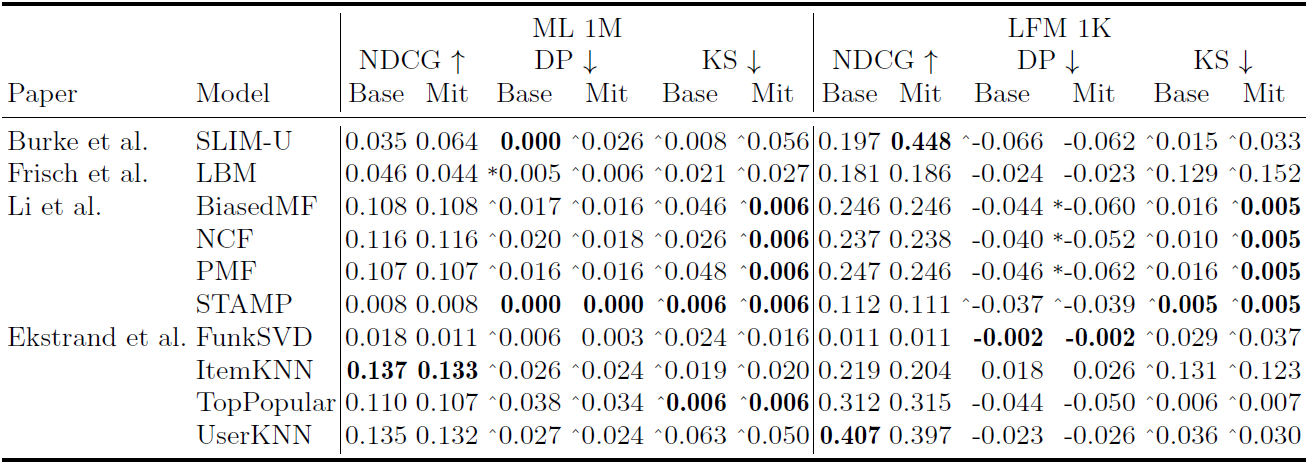
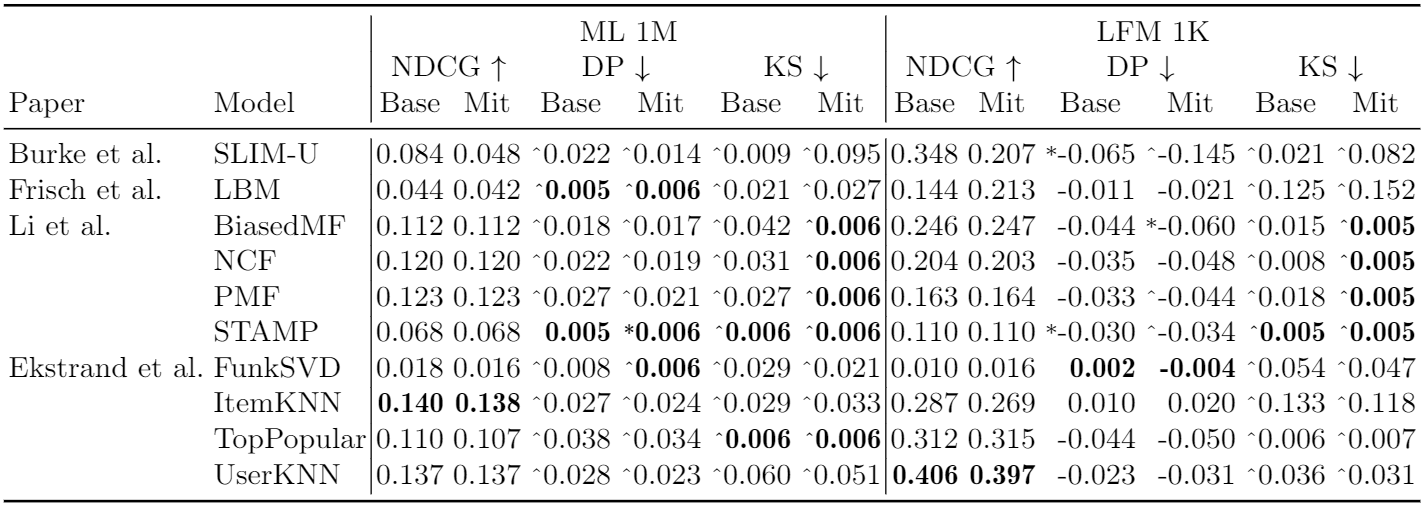
Updated results and hyper-parameters of each paper

diff --git a/reproducibility_study/Wu_et_al/REPRODUCE.md b/reproducibility_study/Wu_et_al/REPRODUCE.md
@@ -32,19 +32,19 @@ inside the same file or the [REPRODUCE.md](../../Preprocessing/REPRODUCE.md) fil
 you need to add the argument `--create_fairgo_input_data` to generate the input files for this paper. You must copy the files from the
 related directory and copy them inside the directory **filtered(20)_lastfm_1K_reproduce_data** for Last.FM 1K and **movielens_1m_reproduce_data** for MovieLens 1M.
 
-We used the following hyper-parameters:
-- learning rate for all the optimizers: 0.005
-- filtered embeddings size: 64
+The embedding of the GCN baseline have been created using the following hyper-parameters:
+- GCN embedding size: (MovieLens 1M: 64, Last.FM 1K: 128)
+- GCN learning rate: (MovieLens 1M: 0.01, Last.FM 1K: 0.005)
 
-For each dataset we used the following hyper-parameters:
-- MovieLens 1M:
-    - &#955; = 0.1
-    - 3 layers for each filter network with hidden layers size: [128,64]
-    - 4 layers for each discriminator with hidden layers size: [16,8]
-- Last.FM 1K:
-    - &#955; = 0.2
-    - 4 layers for each filter network with hidden layers size: [128,64,32]
-    - 4 layers for each discriminator with hidden layers size: [16,8,4]
+The parameters selected for the filtering mitigation approach are: 
+- **MovieLens 1M**:
+    - d_optimizer learning rate (Learning rate of the discriminators optimizer): 0.01
+    - f_optimizer learning rate (Learning rate of the filters optimizer): 0.005
+    - &#955; (lambda): 0.2
+- **Last.FM 1K**:
+    - d_optimizer learning rate (Learning rate of the discriminators optimizer): (Gender: 0.005, Age: 0.01)
+    - f_optimizer learning rate (Learning rate of the filters optimizer): (Gender: 0.01, Age: 0.005)
+    - &#955; (lambda): 0.3
 
 ## 4. Code Execution
 The code to train the GCN and save the embeddings can be executed with the following command in Windows inside the folder **code/code_ml** for MovieLens 1M or inside the folder

diff --git a/reproducibility_study/Burke_et_al/REPRODUCE.md b/reproducibility_study/Burke_et_al/REPRODUCE.md
@@ -60,19 +60,39 @@ NOTICE: to reduce the number of labels we only use the labels `F` and `M`. The u
 that in the pre-processed datasets are identified with `True`, while `F` are the users of the minority group (female, old) that in the pre-processed datasets
 are identified with `False`, as done by the authors, who treat females as the protected class.
 
-The hyper-parameters for the *BN-SLIM-U* model that we used are:
+The hyper-parameters for the *SLIM-U* model that we used are:
 - early-stop: true
 - similarity (type="user"): cos
-- neighborhood-size: 50
 - shrinkage: 10
 - bold-driver: false
 - iterator-max: 10
-- &#955;<sub>1</sub> (`<l1-reg>`): 0.1
-- &#955;<sub>2</sub> (`<l2-reg>`): 0.001
-- &#955;<sub>3</sub> (`<l3-reg>`): 25
+- &#955;<sub>3</sub> (`<l3-reg>`): 0.0
 - min-sim: 0.0
 
-The baseline *SLIM-U* can be obtained by setting &#955;<sub>3</sub> to 0.0.
+The other hyper-parameters are different for each dataset:
+
+- **MovieLens 1M**
+    - neighborhood-size: 20
+    - &#955;<sub>1</sub> (`<l1-reg>`): 2.0
+    - &#955;<sub>2</sub> (`<l2-reg>`): 0.1
+- **Last.FM 1K**
+    - neighborhood-size: 60
+    - &#955;<sub>1</sub> (`<l1-reg>`): 1.0
+    - &#955;<sub>2</sub> (`<l2-reg>`): 0.1
+
+The baseline *SLIM-U* is obtained by setting &#955;<sub>3</sub> to 0.0, so the following list only show the different
+values of &#955;<sub>3</sub> that we used for each dataset and sensitive attribute:
+
+- **MovieLens 1M**
+    - *Gender*
+        - &#955;<sub>3</sub> (`<l3-reg>`): 5
+    - *Age*
+        - &#955;<sub>3</sub> (`<l3-reg>`): 25
+- **Last.FM 1K**
+    - *Gender*
+        - &#955;<sub>3</sub> (`<l3-reg>`): 100
+    - *Age*
+        - &#955;<sub>3</sub> (`<l3-reg>`): 50
 
 ## 4. Code Execution
 The specific experiment, represented by the name of the folder, can be executed with the following command inside this folder in Windows:

diff --git a/reproducibility_study/Li_et_al/REPRODUCE.md b/reproducibility_study/Li_et_al/REPRODUCE.md
@@ -63,18 +63,24 @@ To select which input data to use in the fairness-aware post-processing method y
 - `run_id` (line 256): it is a unique id that is added by `generate_input_data.py` in the filename for the creation of the input files for the fairness-aware
 post-processing method. It is used to identify the right files with the string `rank` and the values of `group_1` and `group_2`.
 
-The hyper-parameters that we used are:
-- learning rate: 0.001
-- l2-regularization: 0.00001
-- epochs: 100 (best model is chosen on validation set)
-- embedding size: 64
-
-Some models other hyper-parameters could be selected and we set them to the following values:
-- NeuMF (NCF):
-    - MLP size: [32,16,8]
-    - Final Output Layer size: [64]
-- STAMP:
-    - Maximum User History Length: 30
+The hyper-parameters that we used for each model are:
+- l2 embedding: 0.00001 (for all models)
+- epochs: 100
+- **BiasedMF**
+    - user\item embedding_size: (MovieLens 1M: 32, Last.FM 1K: 64)
+    - learning rate: 0.001
+- **PMF**
+    - user\item embedding_size: 64
+    - learning rate: (MovieLens 1M: 0.001, Last.FM 1K: 0.01)
+- **NeuMF (NCF)**
+    - user\item embedding_size: (MovieLens 1M: 32, Last.FM 1K: 64)
+    - learning rate: 0.001
+    - layers: [32,16,8]
+    - p_layers (Prediction Layers): (MovieLens 1M: [128], Last.FM 1K: [64])
+- **STAMP**
+    - user\item embedding_size: 64
+    - learning rate: 0.001
+    - max_his (Maximum User History Length): 30
 
 For the training phase we added 1 negative sample for each interaction in the training set, and the same for the validation set.
 For the fairness-aware post-processing method we set `epsilon` to 0.0 to evaluate the consequences of aiming at a "perfect" fairness.

diff --git a/reproducibility_study/Kamishima_et_al/REPRODUCE.md b/reproducibility_study/Kamishima_et_al/REPRODUCE.md
@@ -27,10 +27,39 @@ related directory and copy them inside this directory `data` which is also prese
 
 The hyper-parameters have been set modifying the files [kamiers/sp_pmf/bdist_match.py](kamiers/sp_pmf/bdist_match.py) and
 [kamiers/sp_pmf/mi_normal.py](kamiers/sp_pmf/mi_normal.py) by setting the variables `a` and `b` in the constructor.
-The hyper-parameters values that we selected are:
-- *a = 10<sup>-8</sup>*
-- *b = 10<sup>-24</sup>*
-- &#951;: 1.0
+The hyper-parameters values that we selected for the baseline are:
+- **MovieLens 1M**
+    - k (embedding size): 7
+    - C (regularization parameter): 10
+- **Last.FM 1K**
+    - k (embedding size): 30
+    - C (regularization parameter): 20
+    
+For each type of independence term applied to the PMF baseline we selected the following parameters:
+- **Mean Matching**
+    - *MovieLens 1M*
+        - &#951; (eta): 1e8
+    - *Last.FM 1K*
+        - &#951; (eta): (Gender: 1e6, Age: 1e7)
+- **BDist Matching**
+    - *MovieLens 1M*
+        - a = 1e-8
+        - b = (Gender: 1e-24, Age: 1e-12)
+        - &#951; (eta): 1e8
+    - *Last.FM 1K*
+        - a = (Gender: 1e-8, Age: 1e-4)
+        - b = 1e-24
+        - &#951; (eta): (Gender: 1e6, Age: 1e8)
+- **Mi Normal**
+    - *MovieLens 1M*
+        - a = (Gender: 1e-4, Age: 1e-8)
+        - b = (Gender: 1e-12, Age: 1e-24)
+        - &#951; (eta): Age: 1e8
+    - *Last.FM 1K*
+        - a = (Gender: 1e-8, Age: 1e-4)
+        - b = (Gender: 1e-12, Age: 1e-24)
+        - &#951; (eta): (Gender: 1e6, Age: 1e8)
+
 
 ## 4. Code Execution
 Differently from others source codes, this codebase perfectly accomodate different data in input with an easy-to-use argument parser to pass the information

diff --git a/reproducibility_study/Ekstrand_et_al/REPRODUCE.md b/reproducibility_study/Ekstrand_et_al/REPRODUCE.md
@@ -51,6 +51,24 @@ For MovieLens 1M from each gender or age group 1500 users are randomly sampled (
 The hyper-parameters for each algorithm can be modified in [algorithms](algorithms/ml) folder, but only the ones inside `ml` folder, since also the `evaluateLFM1KReproduced` task
 uses the algorithms prepared for MovieLens 1M.
 
+The hyper-parameters used for each model are the followings:
+- **Top-N Recommendation**
+    - *ItemKNN (Implicit)*
+        - maximum number of neighbors: 40
+    - *UserKNN (Implicit)*
+        - maximum number of neighbors: 40
+    - *SVD (Implicit)*
+        - features: 60
+        - iterations: 150
+- **Rating Prediction**
+    - *ItemKNN*
+        - maximum number of neighbors: (MovieLens 1M: 20, Last.FM 1K: 40)
+    - *UserKNN*
+        - maximum number of neighbors: (MovieLens 1M: 40, Last.FM 1K: 20)
+    - *SVD*
+        - features: 60
+        - iterations: (MovieLens 1M: 200, Last.FM 1K: 150)
+
 ## 4. Code Execution
 Once the input data files have been copied inside the folder `custom_data` that you can find in this directory, you can execute the code inside the file 
 [train.py](train.py) which is not part of the original dataset of *Ekstrand et al*. This code automatically creates the

diff --git a/reproducibility_study/Rastegarpanah_et_al/REPRODUCE.md b/reproducibility_study/Rastegarpanah_et_al/REPRODUCE.md
@@ -27,9 +27,13 @@ To select which input data to use you need to modify the following variables:
 - `dataset` (line 16\-17): it is the dataset that you select for the experiment and it represents also the beginning of the input filename
 - `sensitive_attribute` (line 20\-21/23\-24): sensitive attribute to consider in the mitigation procedure and it represented the end of the input filename
 
+For the ALS baseline we used the following hyper-parameters:
+- rank: 4
+- &#955;<sub>1</sub> (lambda): (MovieLens 1M: 0.1, Last.FM 1K: 10)
+
 For "group loss variance" utility the parameters values that we used are:
-- &#955; = 1
-- rank = 8
+- runs: 10
+- budget percentage: (MovieLens 1M: 1.0, Last.FM 1K: 10.0)
 
 ## 4. Code Execution
 Once the variables to select the input data and the sensitive attribute to consider have been set to the right value, the code can be executed with

diff --git a/reproducibility_study/Frisch_et_al/REPRODUCE.md b/reproducibility_study/Frisch_et_al/REPRODUCE.md
@@ -38,7 +38,15 @@ To select which input data to use you need to modify the following variables:
 - `dataset` (line 45): dataset used to generate the input data. It is also present at the beginning of the input filename.
 - `covariates` (line 90): 
 
-We set the number of iterations to 25 to repeat the training process of 300 epochs.
+We set the number of iterations to 25 to repeat the training process of 300 epochs and use the following hyper-parameters:
+- **MovieLens 1M**
+    - nq (number of row groups): 25
+    - nl (number of column groups): 25
+    - learning rate: 0.02
+- **Last.FM 1K**
+    - nq (number of row groups): 15
+    - nl (number of column groups): 25
+    - learning rate: 0.05
 
 ## 4. Code Execution
 Once the variables to choose the input data and the sensitive attribute to consider have been set to the right value, the code can be executed with

diff --git a/reproducibility_study/Ashokan_and_Haas/REPRODUCE.md b/reproducibility_study/Ashokan_and_Haas/REPRODUCE.md
@@ -41,7 +41,12 @@ To select which input data to use you need to modify the following variables:
 									while `F` are the users of the minority group (female, old) that in the pre-processed datasets are identified with `False`.
 - `_dataset` (line 101): dataset used to generate the input data. It is also present at the beginnning of the input filename.
 
-In `Main.py` we set the maximum number of neighbors of ItemKNN to 20 and the number of features of BiasedMF to 50.
+In `Main.py` we set the following hyper-parameters for the two models:
+- **ItemKNN**
+    - maximum number of neighbors: (MovieLens 1M: 20, Last.FM 1K: 40)
+- **ALS BiasedMF**
+    - features: 60
+    - iterations: 25
 
 ## 4. Code Execution
 Once the variables to choose the input data and the sensitive attribute to consider have been set to the right value, the code can be executed with
